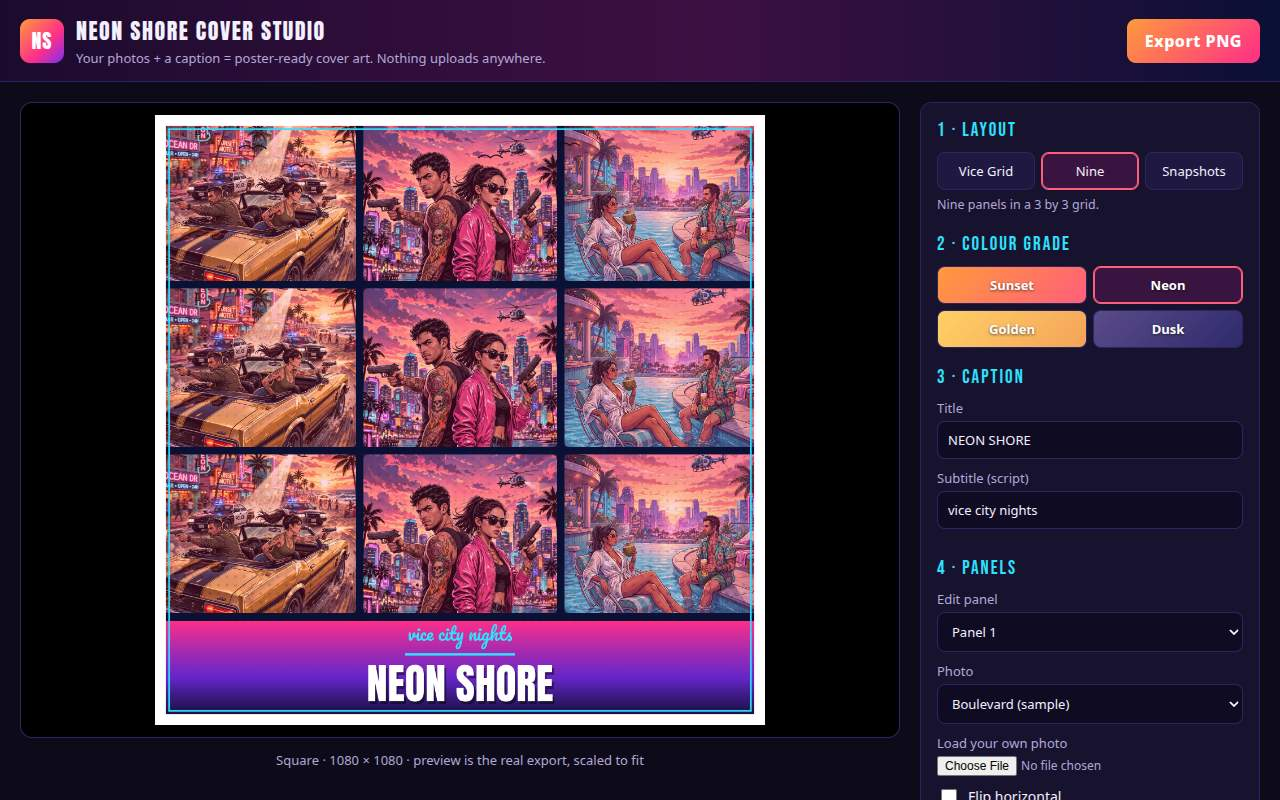
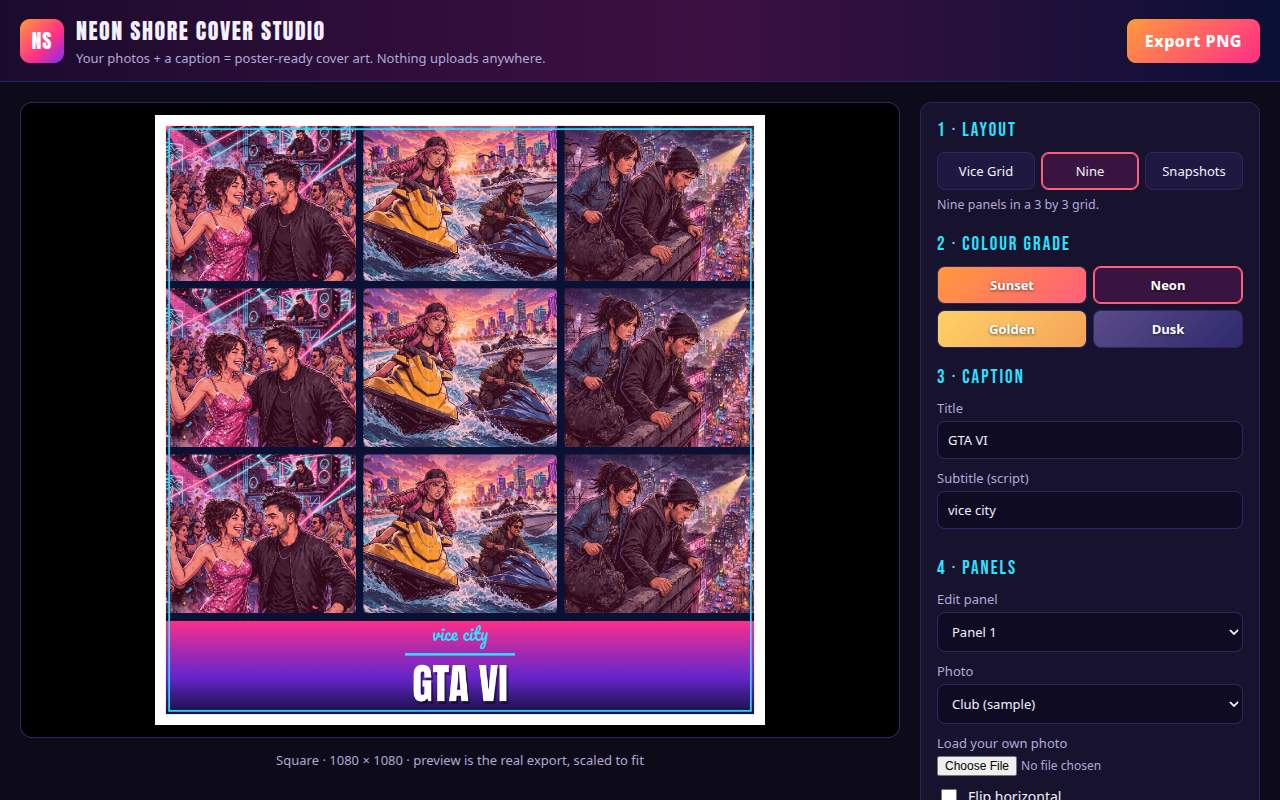
Round 4: swap in Club/Jet Ski/Rooftop samples, default cover title GTA VI
- Replace Gemini-derived Boulevard/Pier/Pool samples with original
  Club (nightclub duo), Jet Ski (sunset race + pursuit) and Rooftop
  (rainy heist, helicopter searchlight) photos, 1920x1280 each
- Default cover caption is now GTA VI with script subtitle vice city,
  so the cover reads as a GTA 6 cover out of the box; the three-lane
  caption (script / accent rule / title) is unchanged
- Empty-title fallback in cover.js now reads GTA VI; dead panel
  fallback sample retargeted from deleted Boulevard to Club
- All four screenshots regenerated under the new samples and title;
  PNG export verified at 1080x1080, 1080x1350 and 1920x1080

diff --git a/app/src/state.js b/app/src/state.js
@@ -6,20 +6,22 @@
 // `focus` marks where each photo's action lives, as fractions of the
 // picture: when a panel is wider or taller than the photo, the crop
 // window centers on that point instead of the dead middle, so the
-// important part stays in frame. Boulevard's chase fills the whole
-// frame, so its focus is the middle; Pier's duo — faces and pistols —
-// sits high in a tall portrait, so its focus rides up at y 0.3: a
-// centered crop would cut their heads off in a wide panel. Pool's duo
-// lounges mid-frame under the helicopter, with the shark swimming
-// below them, so its focus sits just above the middle at y 0.42.
+// important part stays in frame. Club's dancing duo fills the middle
+// of the frame under the disco ball, so its focus sits just below the
+// middle at y 0.45. Jet Ski's two riders cut across the water with the
+// sunset skyline behind them, so its focus sits a touch above the
+// middle at y 0.4, keeping both riders' faces in a wide crop. Rooftop's
+// duo crouches high in the frame while the helicopter sweeps the street
+// below, so its focus rides up at y 0.35: a centered crop would push
+// their heads out of a wide panel.
 const SAMPLE_PHOTOS = {
-  boulevard: { label: 'Boulevard', src: 'samples/boulevard.jpg', focus: { x: 0.5, y: 0.5 } },
-  pier: { label: 'Pier', src: 'samples/pier.jpg', focus: { x: 0.5, y: 0.3 } },
-  pool: { label: 'Pool', src: 'samples/pool.jpg', focus: { x: 0.5, y: 0.42 } },
+  club: { label: 'Club', src: 'samples/club.jpg', focus: { x: 0.5, y: 0.45 } },
+  jetski: { label: 'Jet Ski', src: 'samples/jetski.jpg', focus: { x: 0.5, y: 0.4 } },
+  rooftop: { label: 'Rooftop', src: 'samples/rooftop.jpg', focus: { x: 0.5, y: 0.35 } },
 };
 
 // The order the samples rotate through the panels by default.
-const SAMPLE_KEYS = ['boulevard', 'pier', 'pool'];
+const SAMPLE_KEYS = ['club', 'jetski', 'rooftop'];
 
 // Layouts: how many panels each one shows and what it is called in the UI.
 const LAYOUTS = {
@@ -73,12 +75,14 @@ function freshPanel(photo) {
 
 // The live poster state. Nine panels are kept so every layout has enough;
 // a layout simply uses the first of its panel count.
+// Default cover caption: the cover reads as a GTA 6 cover — big "GTA VI"
+// title with the script "vice city" above it.
 const STATE = {
   layout: 'vice-grid',
   grade: 'sunset',
   size: '1080x1080',
-  title: 'NEON SHORE',
-  subtitle: 'vice city nights',
+  title: 'GTA VI',
+  subtitle: 'vice city',
   frame: true,
   halftone: true,
   birds: true,

diff --git a/app/index.html b/app/index.html
@@ -54,10 +54,10 @@
       <section class="group">
         <h2>3 · Caption</h2>
         <label class="field">Title
-          <input autocomplete="off" id="titleInput" maxlength="24" type="text" value="NEON SHORE">
+          <input autocomplete="off" id="titleInput" maxlength="24" type="text" value="GTA VI">
         </label>
         <label class="field">Subtitle (script)
-          <input autocomplete="off" id="subtitleInput" maxlength="32" type="text" value="vice city nights">
+          <input autocomplete="off" id="subtitleInput" maxlength="32" type="text" value="vice city">
         </label>
       </section>
 
@@ -68,9 +68,9 @@
         </label>
         <label class="field">Photo
           <select id="photoSelect">
-            <option value="boulevard">Boulevard (sample)</option>
-            <option value="pier">Pier (sample)</option>
-            <option value="pool">Pool (sample)</option>
+            <option value="club">Club (sample)</option>
+            <option value="jetski">Jet Ski (sample)</option>
+            <option value="rooftop">Rooftop (sample)</option>
             <option value="custom">Your photo…</option>
           </select>
         </label>

diff --git a/app/src/cover.js b/app/src/cover.js
@@ -199,7 +199,7 @@ function paintLettering(ctx, W, H, state, grade) {
   ctx.textAlign = 'center';
   ctx.textBaseline = 'middle';
 
-  const words = (state.title || 'NEON SHORE').toUpperCase();
+  const words = (state.title || 'GTA VI').toUpperCase();
   // Fit the title to the width: shrink until it fits.
   let titleSize = Math.round(bandH * 0.4);
   ctx.font = `${titleSize}px Anton, 'Arial Black', sans-serif`;
@@ -260,7 +260,7 @@ function renderCover(canvas, state, images) {
   const panels = activePanels();
   for (let i = 0; i < boxes.length; i++) {
     const box = boxes[i];
-    const panel = panels[i] || freshPanel('boulevard');
+    const panel = panels[i] || freshPanel('club');
     const img = panel.photo === 'custom' ? panel.customImg : images[panel.photo];
     ctx.save();
     ctx.translate(box.x + box.w / 2, box.y + box.h / 2);

diff --git a/README.md b/README.md
@@ -13,9 +13,10 @@ files; your photos never leave your machine and nothing is uploaded.
 
 - **Three layouts** — Vice Grid (one wide feature panel plus two stacked
   panels), Nine (a 3×3 grid), and Snapshots (three tilted prints in a row).
-- **Any photo** — the two bundled sample photos, or any photo from your own
-  machine via the file picker. Each panel can be flipped, zoomed, and panned
-  on its own, and one photo can fill every panel with a single click.
+- **Any photo** — the three bundled sample photos (Club, Jet Ski, and
+  Rooftop), or any photo from your own machine via the file picker. Each
+  panel can be flipped, zoomed, and panned on its own, and one photo can
+  fill every panel with a single click.
 - **Caption lettering** — a big bold display title plus a script subtitle,
   set in the bundled SIL-licensed Anton and Pacifico fonts.
 - **Colour grades** — Sunset, Neon, Golden, and Dusk, each washing the
